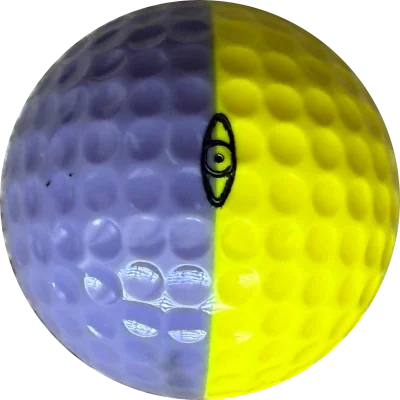
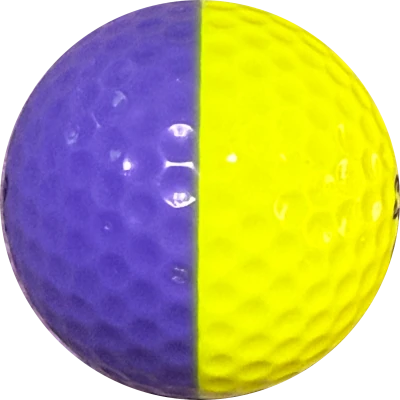
updates

diff --git a/colors.html b/colors.html
@@ -273,6 +273,7 @@
             <tr data-rarity="9"><td>131</td><td class="photo-cell"></td><td>Lavender &amp; Pink Baby</td><td><span class="rarity-badge rarity-9">9</span></td><td class="value-cell">$600-760</td></tr>
             <tr data-rarity="6"><td>132</td><td class="photo-cell"></td><td>Lavender &amp; Yellow</td><td><span class="rarity-badge rarity-6">6</span></td><td class="value-cell">$40-70</td></tr>
             <tr data-rarity="9"><td>132E</td><td class="photo-cell"></td><td>Lavender Pale &amp; Yellow</td><td><span class="rarity-badge rarity-9">9</span></td><td class="value-cell">$200-250</td></tr>
+            <tr data-rarity="10"><td>132F</td><td class="photo-cell"></td><td>Lavender Pale &amp; Yellow Pale</td><td><span class="rarity-badge rarity-10">10</span></td><td class="value-cell">$500</td></tr>
             <tr data-rarity="8"><td>133</td><td class="photo-cell"></td><td>Lavender &amp; Red</td><td><span class="rarity-badge rarity-8">8</span></td><td class="value-cell">$210-265</td></tr>
             <tr data-rarity="9"><td>134</td><td class="photo-cell"></td><td>Lavender &amp; Silver</td><td><span class="rarity-badge rarity-9">9</span></td><td class="value-cell">$900-1000</td></tr>
             <tr data-rarity="5"><td>135</td><td class="photo-cell"></td><td>Lavender &amp; Teal</td><td><span class="rarity-badge rarity-5">5</span></td><td class="value-cell">$25-60</td></tr>
@@ -824,6 +825,7 @@
         '131': 'lavender-pinkpale-131',
         '132': 'lavender-yellow-132',
         '132E': 'lavenderpale-yellow-132E',
+        '132F': 'lavenderpale-yellowpale-132F',
         '133': 'lavender-red-133',
         '134': 'lavender-silver-134',
         '135': 'lavender-teal-135',
